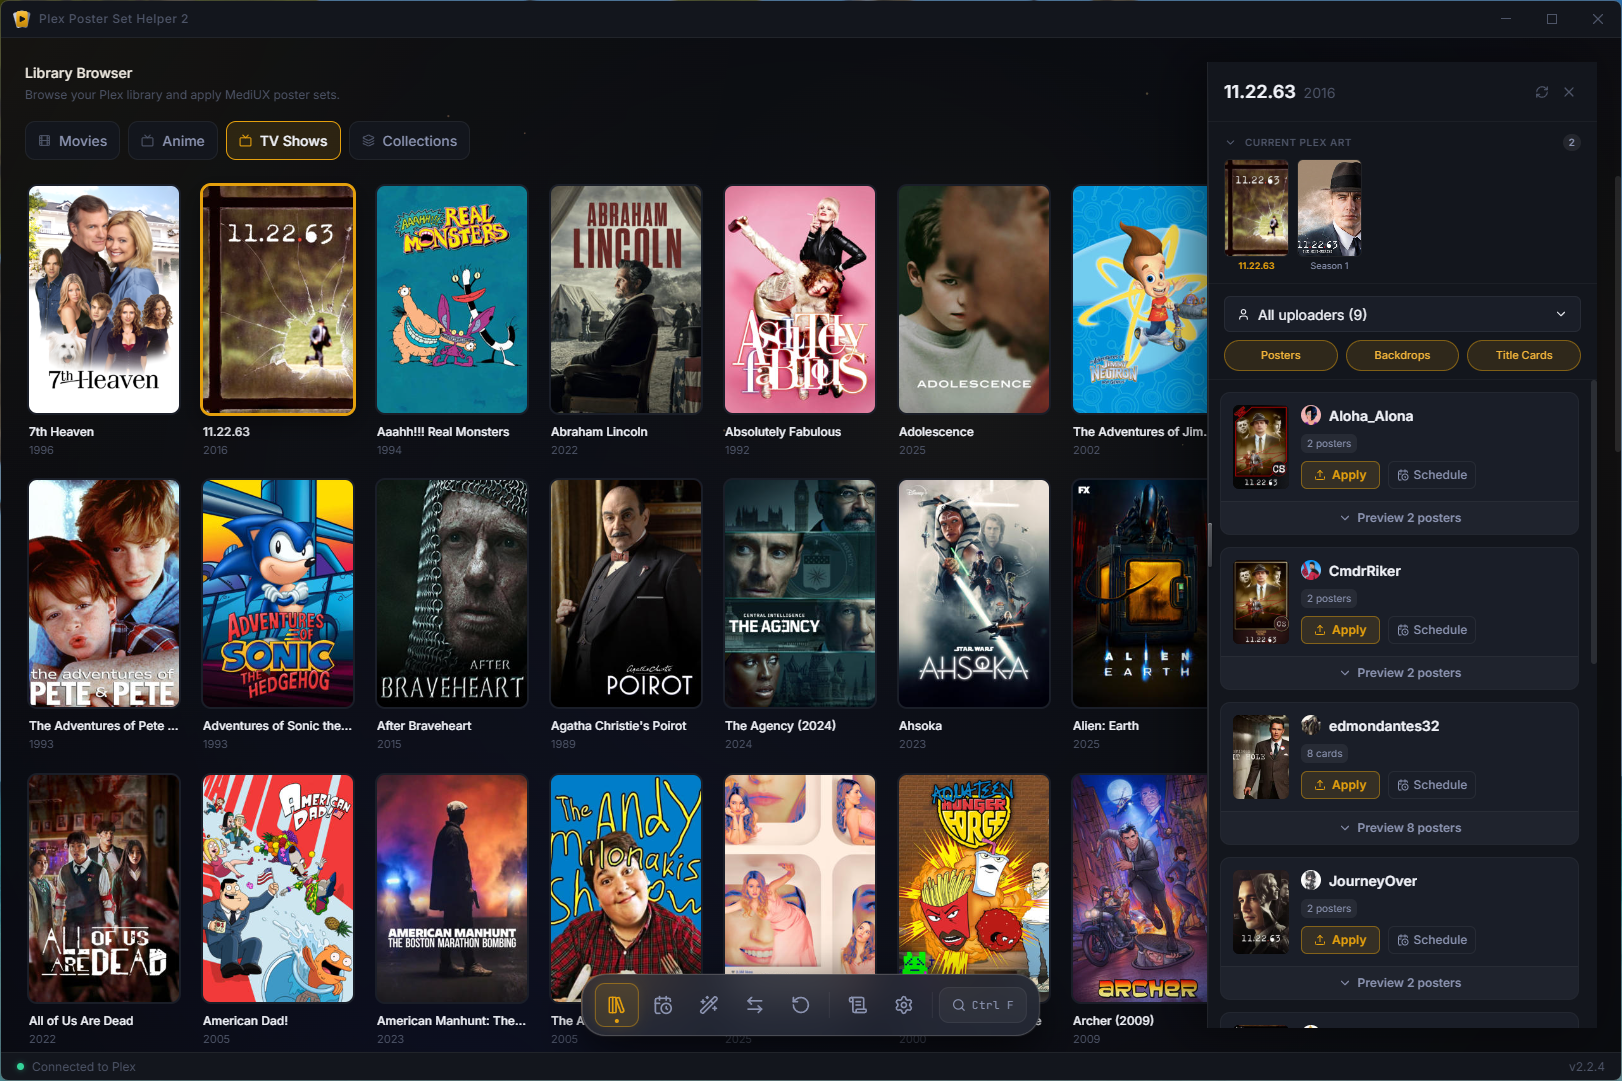
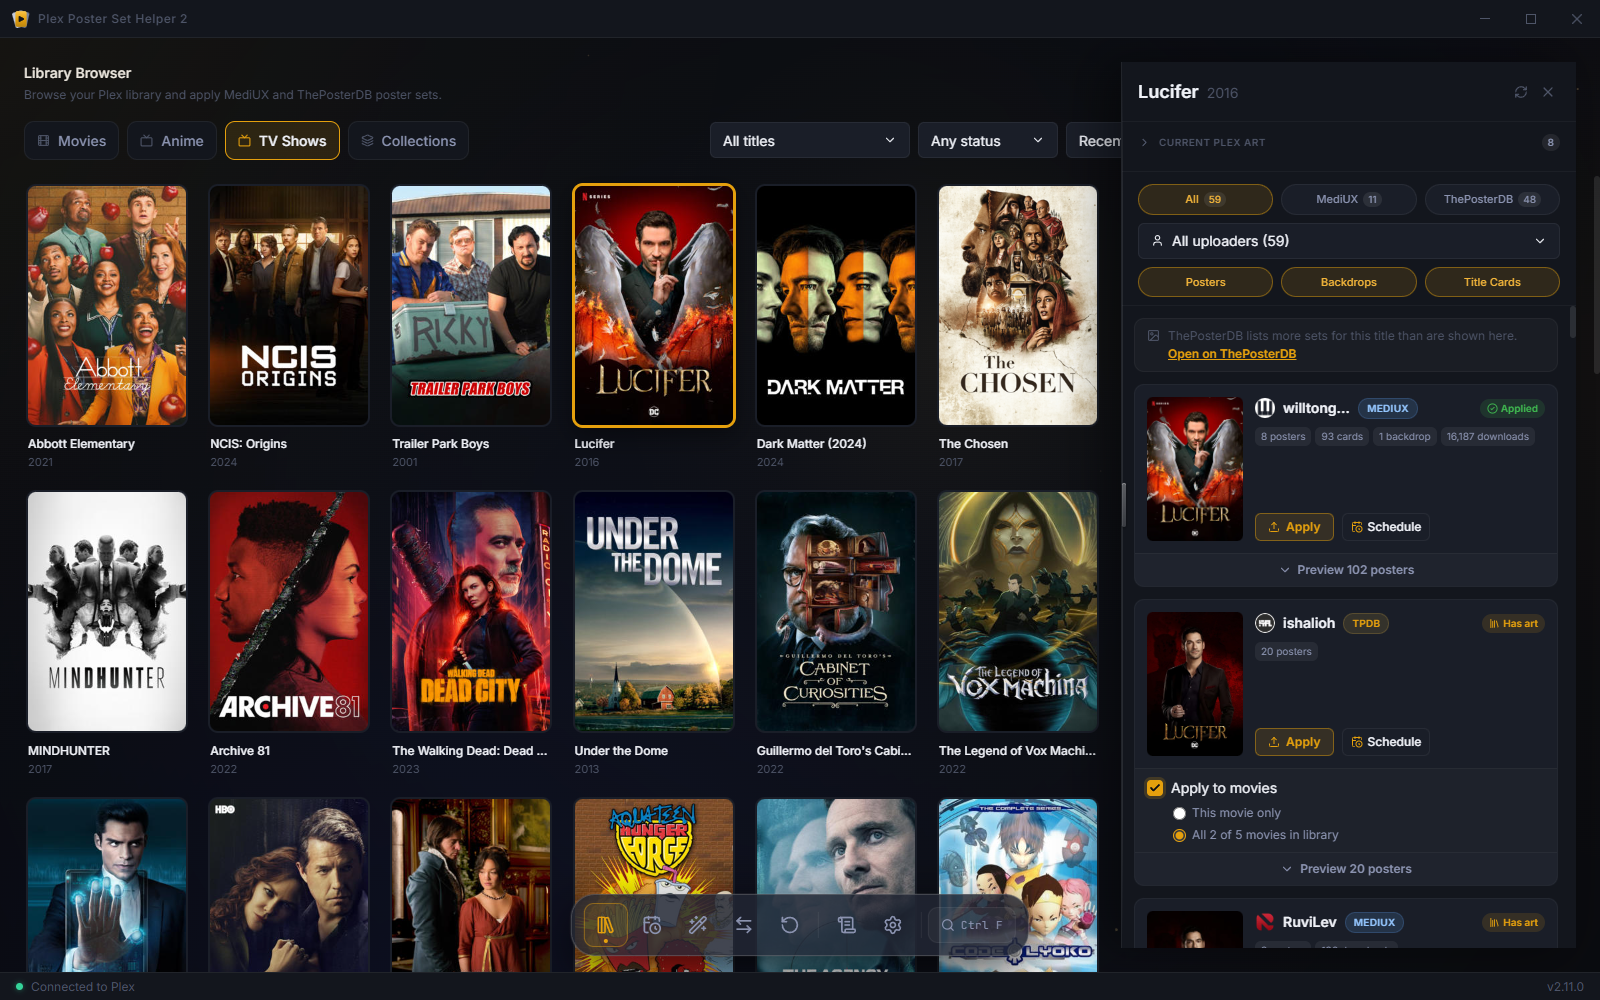
docs: replace the v2.2 screenshots with v2.11.0 captures
Every screenshot showed the v2.2.4 interface, including a Library
Browser that only listed MediUX sets. The gallery now shows v2.11.0:
MediUX and ThePosterDB sets with download counts, the Creators tab, the
art and status filters, Quick sync, and title cards marked as applied.
Account names, the server address and local paths are blurred.

The thumbs folder held full-size PNGs, so the README loaded about 11.7 MB
of images. It now uses 800px JPEG thumbnails (about 650 KB in total),
each linking to a full-size image. library-browser.png keeps its name
because the AppStream metadata points at it, and its caption now names
both sites.

diff --git a/README.md b/README.md
@@ -139,32 +139,32 @@ Everything you apply is recorded locally, so the **Reset Posters** page knows wh
 <br />
 <table>
   <tr>
-    <td width="50%"><a href=".github/assets/gallery/library-browser.png"><img src=".github/assets/gallery/library-browser.png" width="400" alt="Library Browser with a TV library grid and the sets panel open for one show" /></a><br /><sub>Library Browser</sub></td>
-    <td width="50%"><a href=".github/assets/gallery/thumbs/1-creators-browser.png"><img src=".github/assets/gallery/thumbs/1-creators-browser.png" width="400" alt="Creators tab listing a followed creator's sets" /></a><br /><sub>Creators tab</sub></td>
+    <td width="50%"><a href=".github/assets/gallery/library-browser.png"><img src=".github/assets/gallery/thumbs/library-browser.jpg" width="400" alt="Library Browser on the TV Shows tab with the sets panel open for Lucifer, listing MediUX and ThePosterDB sets with download counts" /></a><br /><sub>Library Browser</sub></td>
+    <td width="50%"><a href=".github/assets/gallery/1-creators-browser.jpg"><img src=".github/assets/gallery/thumbs/1-creators-browser.jpg" width="400" alt="Creators tab showing a followed MediUX creator's sets, with which ones are in the library" /></a><br /><sub>Creators tab</sub></td>
   </tr>
   <tr>
-    <td><a href=".github/assets/gallery/thumbs/1.05-collection-browser.png"><img src=".github/assets/gallery/thumbs/1.05-collection-browser.png" width="400" alt="Collections tab of the Library Browser" /></a><br /><sub>Collections tab</sub></td>
-    <td><a href=".github/assets/gallery/thumbs/1.1-search-1.png"><img src=".github/assets/gallery/thumbs/1.1-search-1.png" width="400" alt="Command palette open over the app" /></a><br /><sub>Command palette</sub></td>
+    <td><a href=".github/assets/gallery/1.05-collection-browser.jpg"><img src=".github/assets/gallery/thumbs/1.05-collection-browser.jpg" width="400" alt="Collections tab with the sets panel open for a movie collection" /></a><br /><sub>Collections tab</sub></td>
+    <td><a href=".github/assets/gallery/1.1-search-1.jpg"><img src=".github/assets/gallery/thumbs/1.1-search-1.jpg" width="400" alt="Command palette listing pages and quick actions" /></a><br /><sub>Command palette</sub></td>
   </tr>
   <tr>
-    <td><a href=".github/assets/gallery/thumbs/1.2-search-2.png"><img src=".github/assets/gallery/thumbs/1.2-search-2.png" width="400" alt="Command palette searching the library" /></a><br /><sub>Library search</sub></td>
-    <td><a href=".github/assets/gallery/thumbs/2-scheduler-list.png"><img src=".github/assets/gallery/thumbs/2-scheduler-list.png" width="400" alt="Scheduler page listing jobs and their schedules" /></a><br /><sub>Scheduler</sub></td>
+    <td><a href=".github/assets/gallery/1.2-search-2.jpg"><img src=".github/assets/gallery/thumbs/1.2-search-2.jpg" width="400" alt="Command palette searching the library for a title" /></a><br /><sub>Library search</sub></td>
+    <td><a href=".github/assets/gallery/2-scheduler-list.jpg"><img src=".github/assets/gallery/thumbs/2-scheduler-list.jpg" width="400" alt="Scheduler page listing jobs with their schedules and last results" /></a><br /><sub>Scheduler</sub></td>
   </tr>
   <tr>
-    <td><a href=".github/assets/gallery/thumbs/3-scheduler-edit.png"><img src=".github/assets/gallery/thumbs/3-scheduler-edit.png" width="400" alt="Scheduler job editor with schedule options" /></a><br /><sub>Job editor</sub></td>
-    <td><a href=".github/assets/gallery/thumbs/4-title-mappings.png"><img src=".github/assets/gallery/thumbs/4-title-mappings.png" width="400" alt="Title Mappings page" /></a><br /><sub>Title Mappings</sub></td>
+    <td><a href=".github/assets/gallery/3-scheduler-edit.jpg"><img src=".github/assets/gallery/thumbs/3-scheduler-edit.jpg" width="400" alt="Job editor with the link, a weekly schedule, its next runs, and the job options" /></a><br /><sub>Job editor</sub></td>
+    <td><a href=".github/assets/gallery/4-title-mappings.jpg"><img src=".github/assets/gallery/thumbs/4-title-mappings.jpg" width="400" alt="Title Mappings page" /></a><br /><sub>Title Mappings</sub></td>
   </tr>
   <tr>
-    <td><a href=".github/assets/gallery/thumbs/5-manual-scrape-top.png"><img src=".github/assets/gallery/thumbs/5-manual-scrape-top.png" width="400" alt="Manual Import showing the posters scraped from a set" /></a><br /><sub>Manual Import</sub></td>
-    <td><a href=".github/assets/gallery/thumbs/6-manual-scrape-titles.png"><img src=".github/assets/gallery/thumbs/6-manual-scrape-titles.png" width="400" alt="Manual Import with posters already applied to the library marked in green" /></a><br /><sub>Manual Import, applied art marked</sub></td>
+    <td><a href=".github/assets/gallery/5-manual-scrape-top.jpg"><img src=".github/assets/gallery/thumbs/5-manual-scrape-top.jpg" width="400" alt="Manual Import showing the posters scraped from a MediUX show page" /></a><br /><sub>Manual Import</sub></td>
+    <td><a href=".github/assets/gallery/6-manual-scrape-titles.jpg"><img src=".github/assets/gallery/thumbs/6-manual-scrape-titles.jpg" width="400" alt="Manual Import with episode title cards already applied to the library marked Applied" /></a><br /><sub>Manual Import, applied art marked</sub></td>
   </tr>
   <tr>
-    <td><a href=".github/assets/gallery/thumbs/7-reset-posters.png"><img src=".github/assets/gallery/thumbs/7-reset-posters.png" width="400" alt="Reset Posters page listing applied art" /></a><br /><sub>Reset Posters</sub></td>
-    <td><a href=".github/assets/gallery/thumbs/10-log-drawer.png"><img src=".github/assets/gallery/thumbs/10-log-drawer.png" width="400" alt="Log drawer open at the bottom of the app" /></a><br /><sub>Log drawer</sub></td>
+    <td><a href=".github/assets/gallery/7-reset-posters.jpg"><img src=".github/assets/gallery/thumbs/7-reset-posters.jpg" width="400" alt="Reset Posters page listing applied art" /></a><br /><sub>Reset Posters</sub></td>
+    <td><a href=".github/assets/gallery/10-log-drawer.jpg"><img src=".github/assets/gallery/thumbs/10-log-drawer.jpg" width="400" alt="Log drawer open at the bottom of the Library Browser" /></a><br /><sub>Log drawer</sub></td>
   </tr>
   <tr>
-    <td><a href=".github/assets/gallery/thumbs/8-settings-top.png"><img src=".github/assets/gallery/thumbs/8-settings-top.png" width="400" alt="Settings page with the Plex Account, Plex Server, Libraries, and TMDB Matching sections" /></a><br /><sub>Settings</sub></td>
-    <td><a href=".github/assets/gallery/thumbs/9-settings-bottom.png"><img src=".github/assets/gallery/thumbs/9-settings-bottom.png" width="400" alt="Settings page with the MediUX Asset Types, Scraper, Browser Engine, General, and Application sections" /></a><br /><sub>Settings, continued</sub></td>
+    <td><a href=".github/assets/gallery/8-settings-top.jpg"><img src=".github/assets/gallery/thumbs/8-settings-top.jpg" width="400" alt="Settings page with the Plex Account, Plex Server, and Libraries sections" /></a><br /><sub>Settings</sub></td>
+    <td><a href=".github/assets/gallery/9-settings-bottom.jpg"><img src=".github/assets/gallery/thumbs/9-settings-bottom.jpg" width="400" alt="Settings page with the Browser Engine, General, and Application sections" /></a><br /><sub>Settings, continued</sub></td>
   </tr>
 </table>
 </details>
